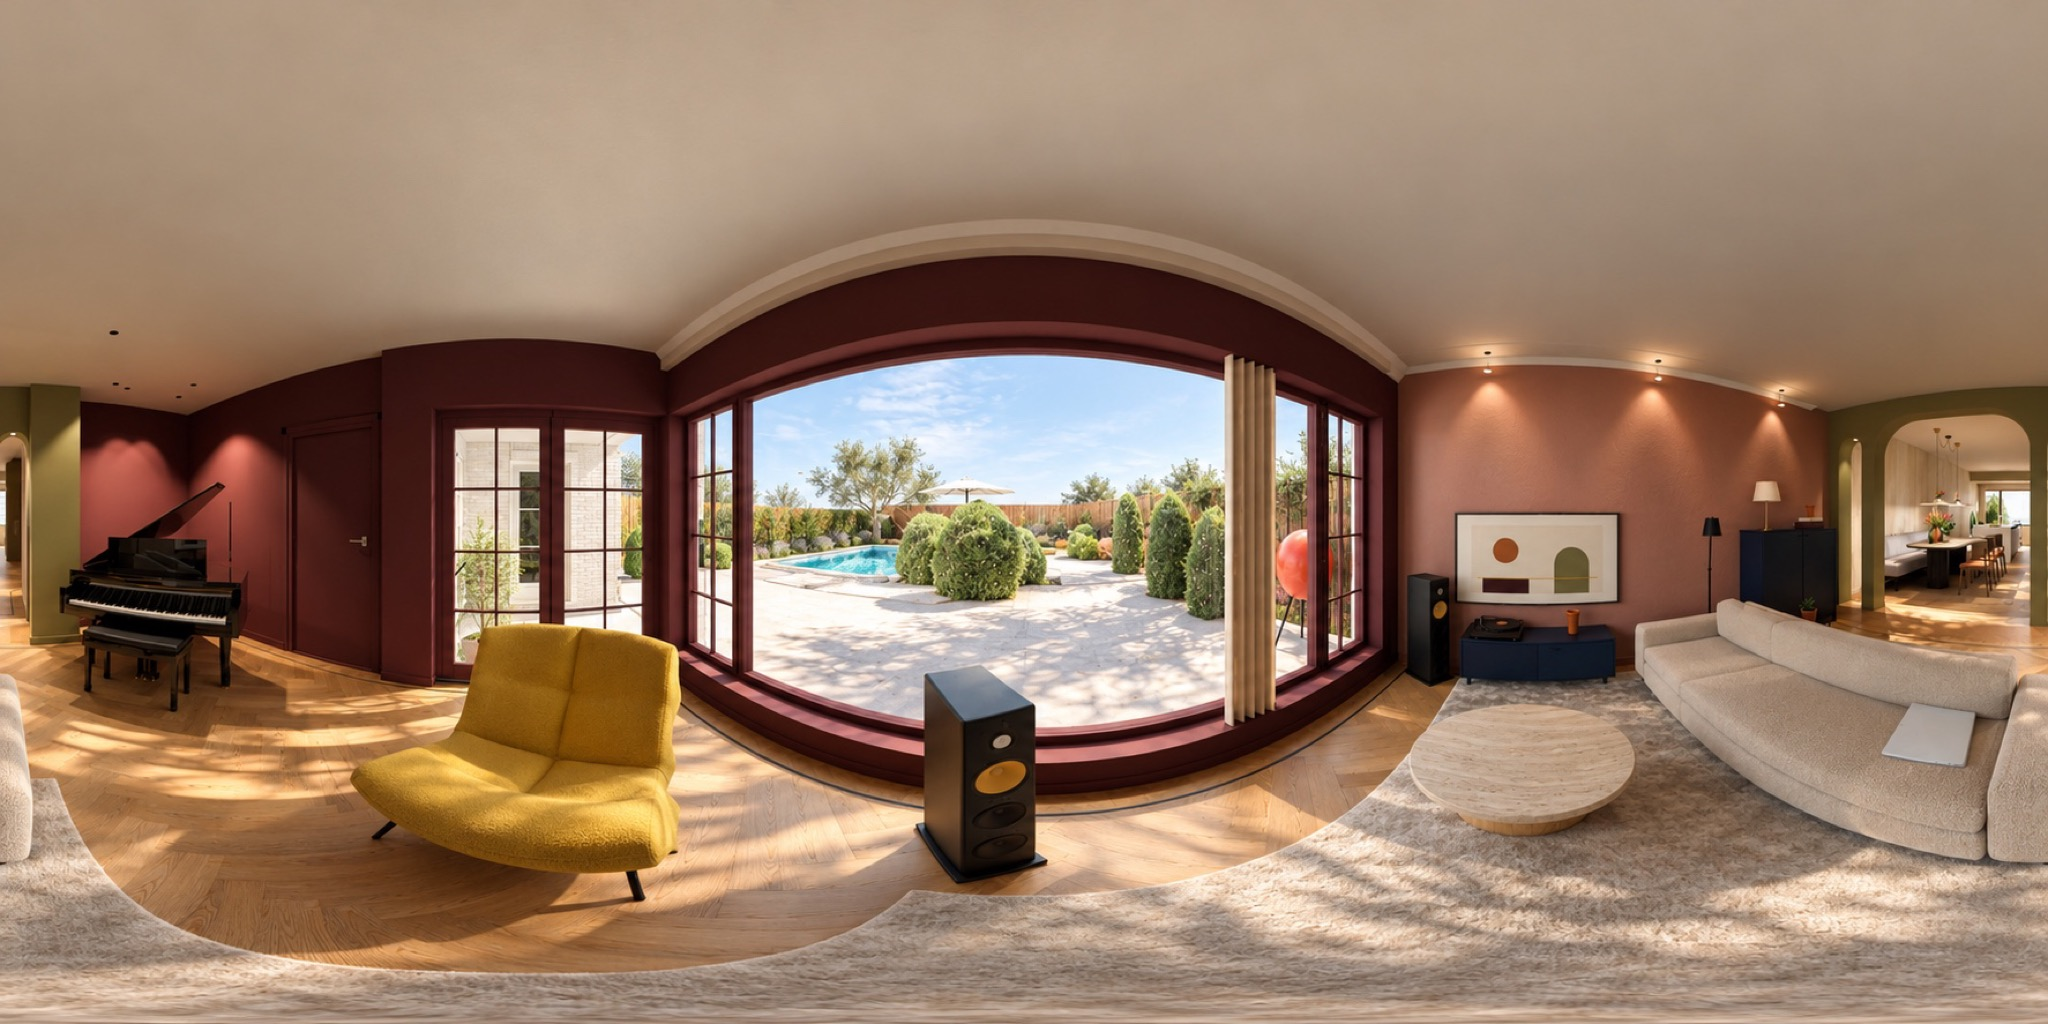
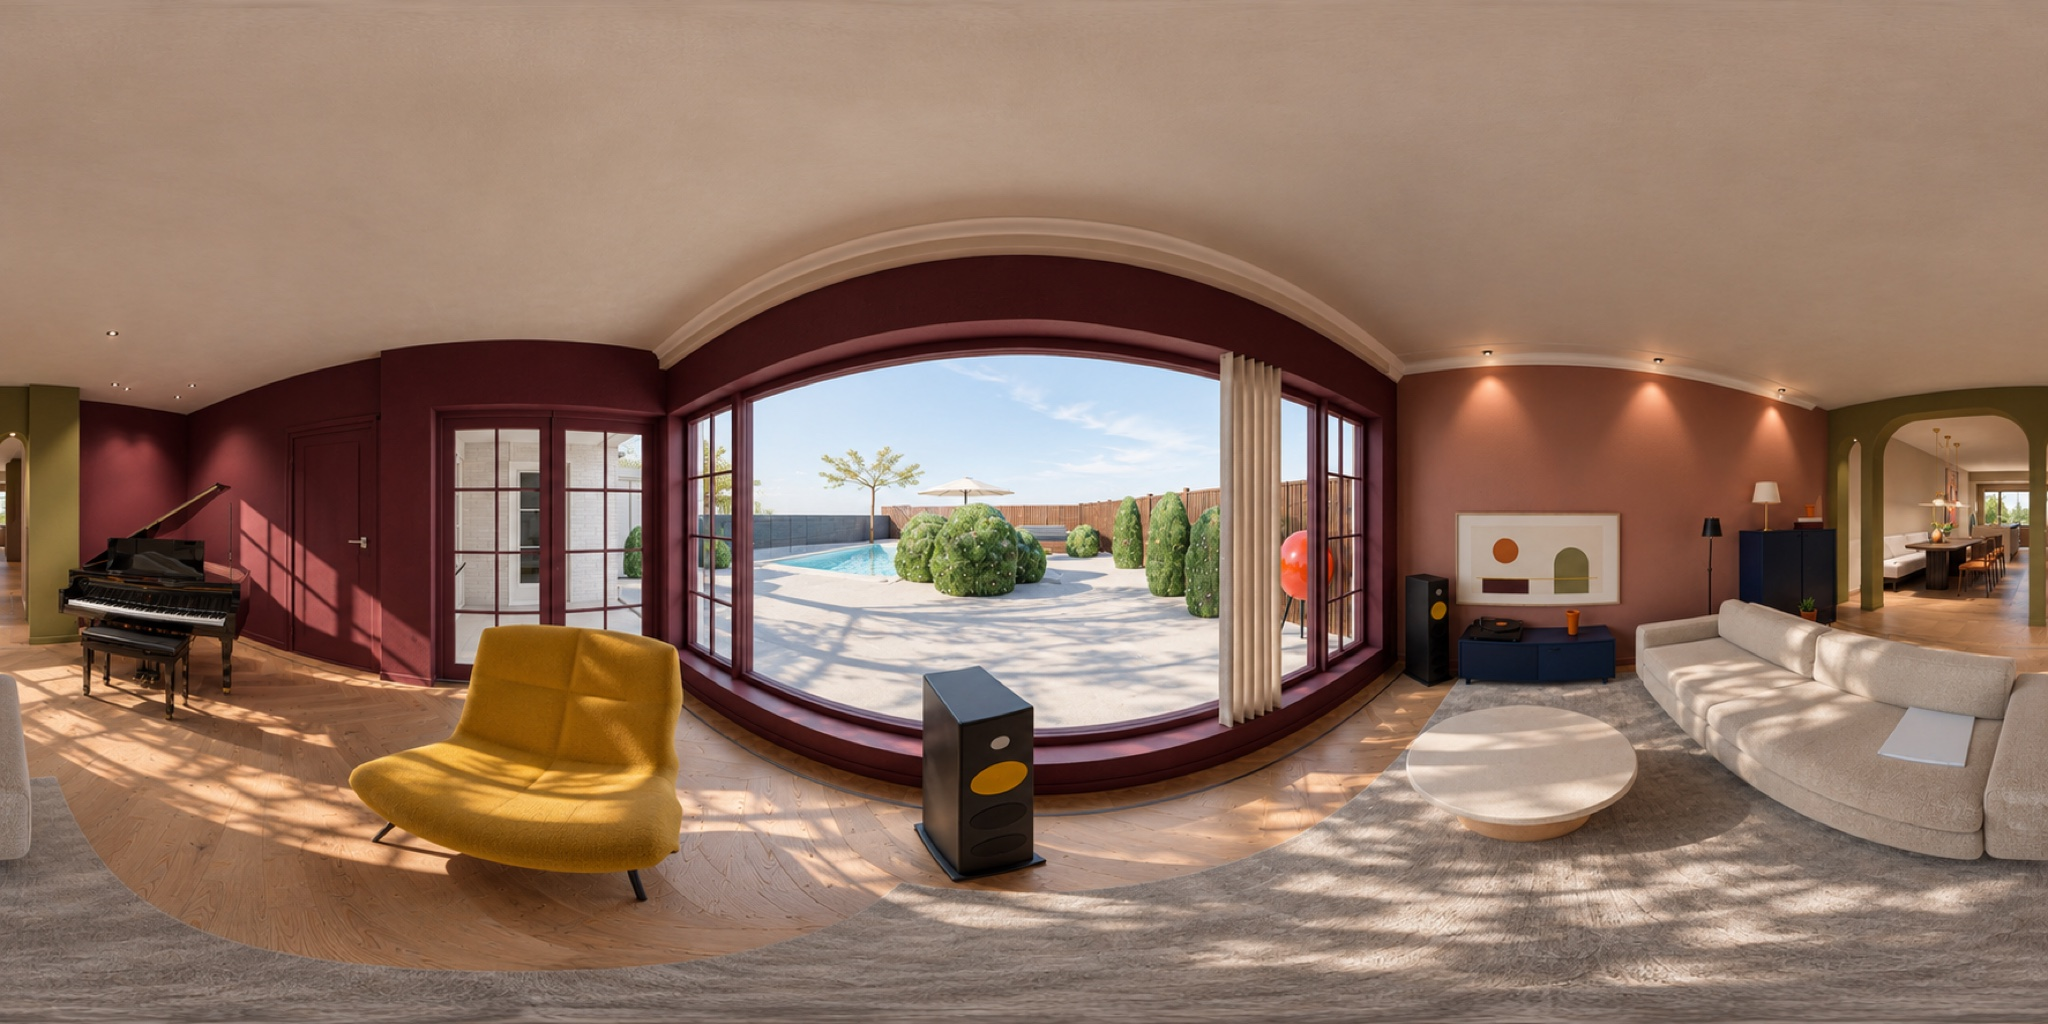
Nieuwe fotorealistische versies (GPT): eetzone, eiland, erker, keuken met schilderij en barkrukken; vleugel, woonkamer; hal en slaapkamer avond

diff --git a/index.html b/index.html
@@ -163,7 +163,7 @@ const LINKS = {
 };
 const VOLGORDE = ['woonkamer', 'vleugel', 'eetzone', 'keuken', 'erker', 'eiland', 'speelkamer', 'hal', 'slaapkamer', 'slaapkamerbed', 'badkamer',
                   'overloop', 'gang', 'portaal', 'ouders', 'oudersraam', 'kinderkamer', 'kinderbedstede', 'meisjeskamer', 'meisjesleeshoek', 'inloopkast'];
-const HEEFT_FOTO = new Set(['badkamer-avond', 'badkamer', 'gang-avond', 'gang', 'hal-avond', 'hal', 'inloopkast-avond', 'inloopkast', 'kinderbedstede-avond', 'kinderbedstede', 'kinderkamer-avond', 'kinderkamer', 'meisjeskamer-avond', 'meisjeskamer', 'meisjesleeshoek-avond', 'meisjesleeshoek', 'ouders-avond', 'ouders', 'oudersraam-avond', 'oudersraam', 'overloop-avond', 'overloop', 'portaal-avond', 'portaal', 'slaapkamer-avond', 'slaapkamer', 'slaapkamerbed-avond', 'slaapkamerbed', 'speelkamer-avond', 'speelkamer', 'vleugel-avond', 'vleugel', 'woonkamer-avond', 'woonkamer']);   // AI-versies die er zijn
+const HEEFT_FOTO = new Set(['badkamer-avond', 'badkamer', 'eetzone', 'eiland', 'erker', 'gang-avond', 'gang', 'hal-avond', 'hal', 'inloopkast-avond', 'inloopkast', 'keuken', 'kinderbedstede-avond', 'kinderbedstede', 'kinderkamer-avond', 'kinderkamer', 'meisjeskamer-avond', 'meisjeskamer', 'meisjesleeshoek-avond', 'meisjesleeshoek', 'ouders-avond', 'ouders', 'oudersraam-avond', 'oudersraam', 'overloop-avond', 'overloop', 'portaal-avond', 'portaal', 'slaapkamer-avond', 'slaapkamer', 'slaapkamerbed-avond', 'slaapkamerbed', 'speelkamer-avond', 'speelkamer', 'vleugel-avond', 'vleugel', 'woonkamer-avond', 'woonkamer']);   // AI-versies die er zijn
 const HEEFT_PANO = new Set(['badkamer-avond', 'badkamer', 'eetzone-avond', 'eetzone', 'eiland-avond', 'eiland', 'erker-avond', 'erker', 'gang-avond', 'gang', 'hal-avond', 'hal', 'inloopkast-avond', 'inloopkast', 'keuken-avond', 'keuken', 'kinderbedstede-avond', 'kinderbedstede', 'kinderkamer-avond', 'kinderkamer', 'meisjeskamer-avond', 'meisjeskamer', 'meisjesleeshoek-avond', 'meisjesleeshoek', 'ouders-avond', 'ouders', 'oudersraam-avond', 'oudersraam', 'overloop-avond', 'overloop', 'portaal-avond', 'portaal', 'slaapkamer-avond', 'slaapkamer', 'slaapkamerbed-avond', 'slaapkamerbed', 'speelkamer-avond', 'speelkamer', 'vleugel-avond', 'vleugel', 'woonkamer-avond', 'woonkamer']);   // 3D-renders die er zijn (publiceer_site.sh); standplaatsen zonder render vallen weg
 for (const id of Object.keys(SPOTS)) if (!HEEFT_PANO.has(id)) { delete SPOTS[id]; delete LINKS[id]; }
 VOLGORDE.splice(0, VOLGORDE.length, ...VOLGORDE.filter(id => SPOTS[id]));
